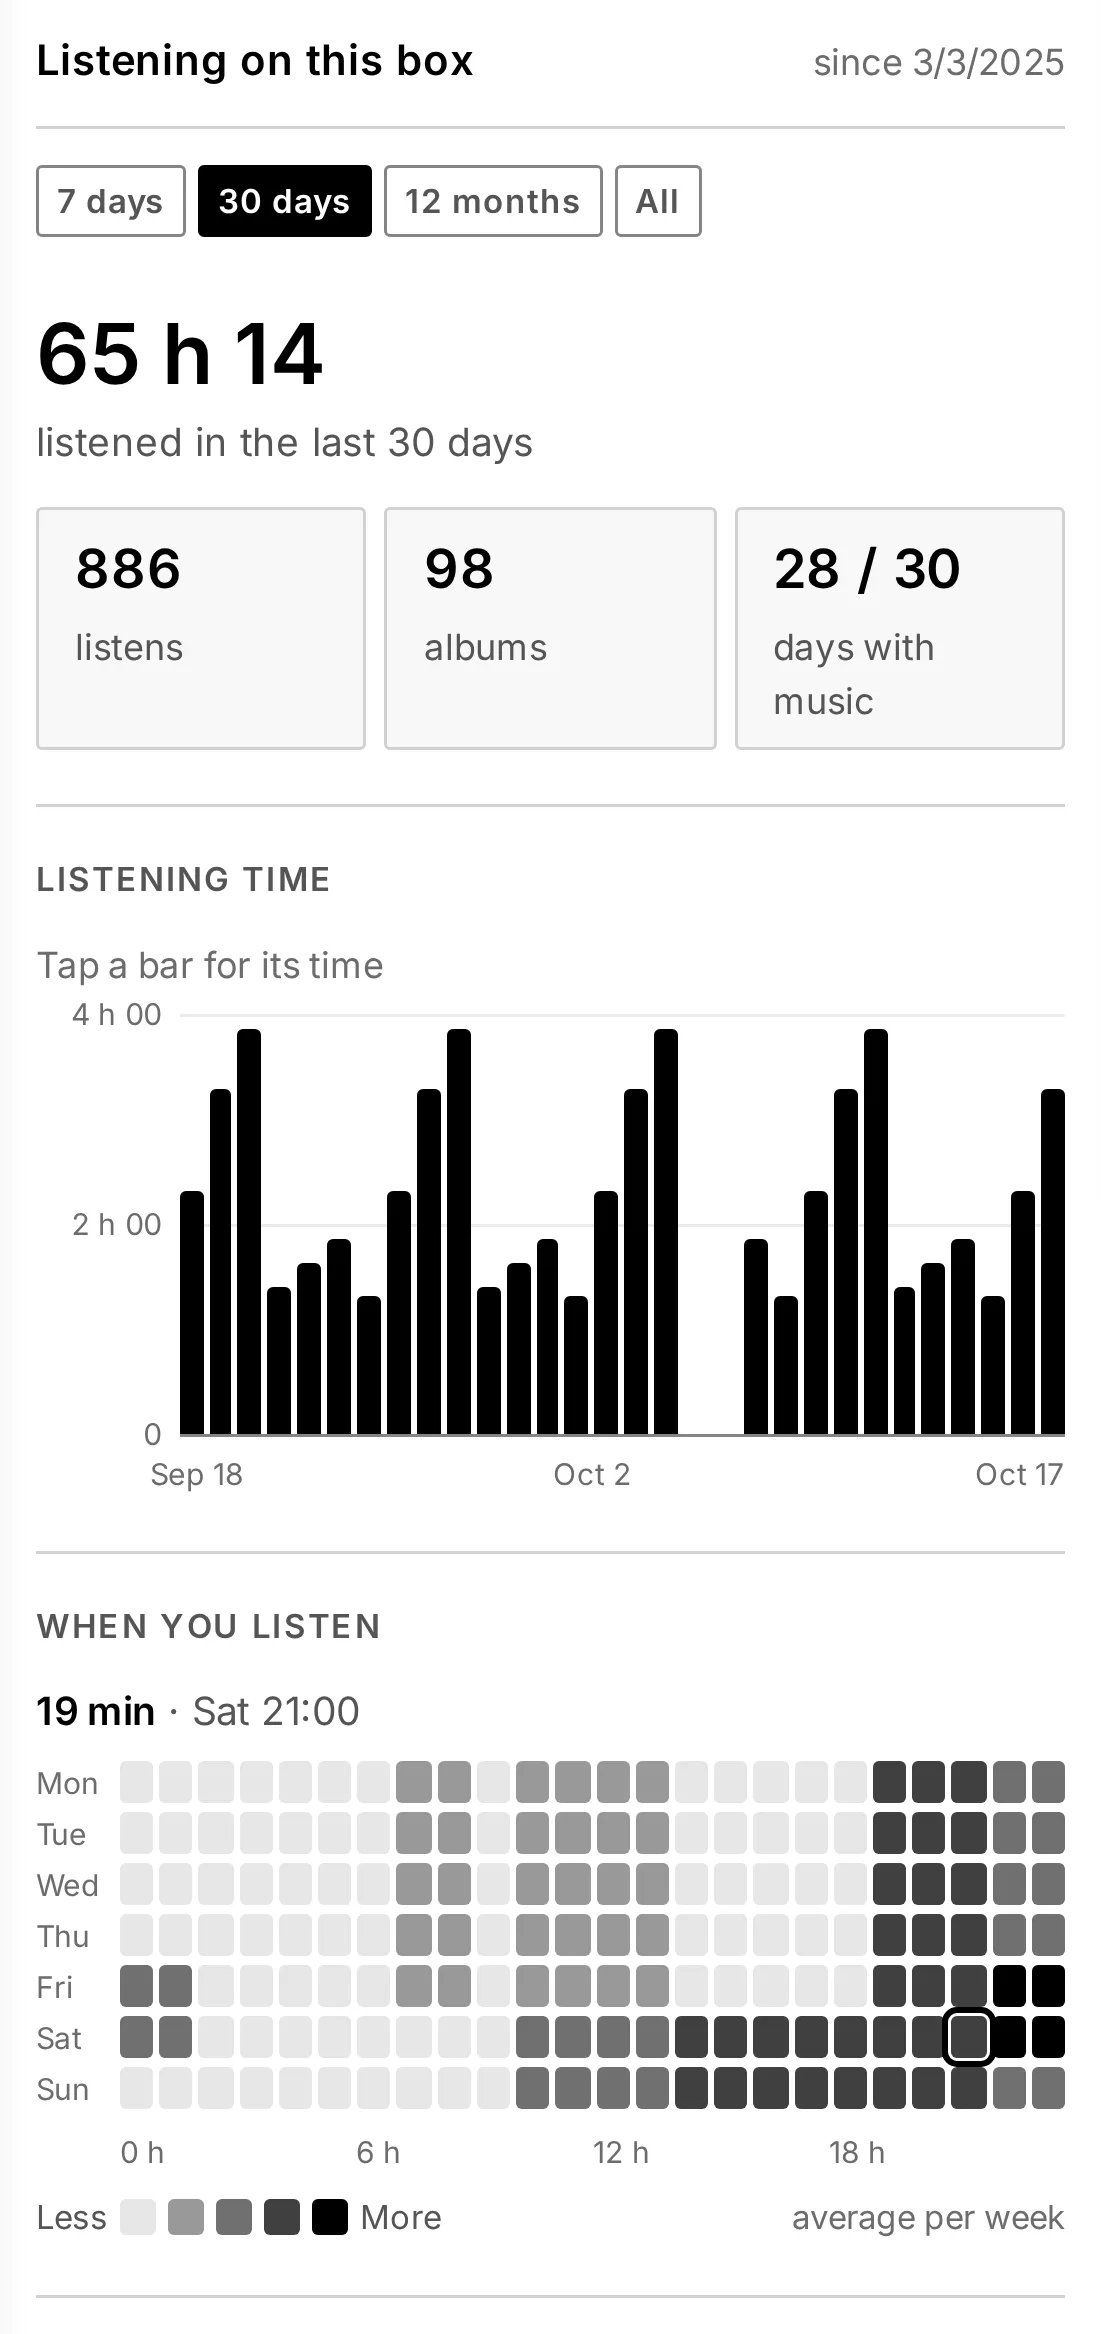
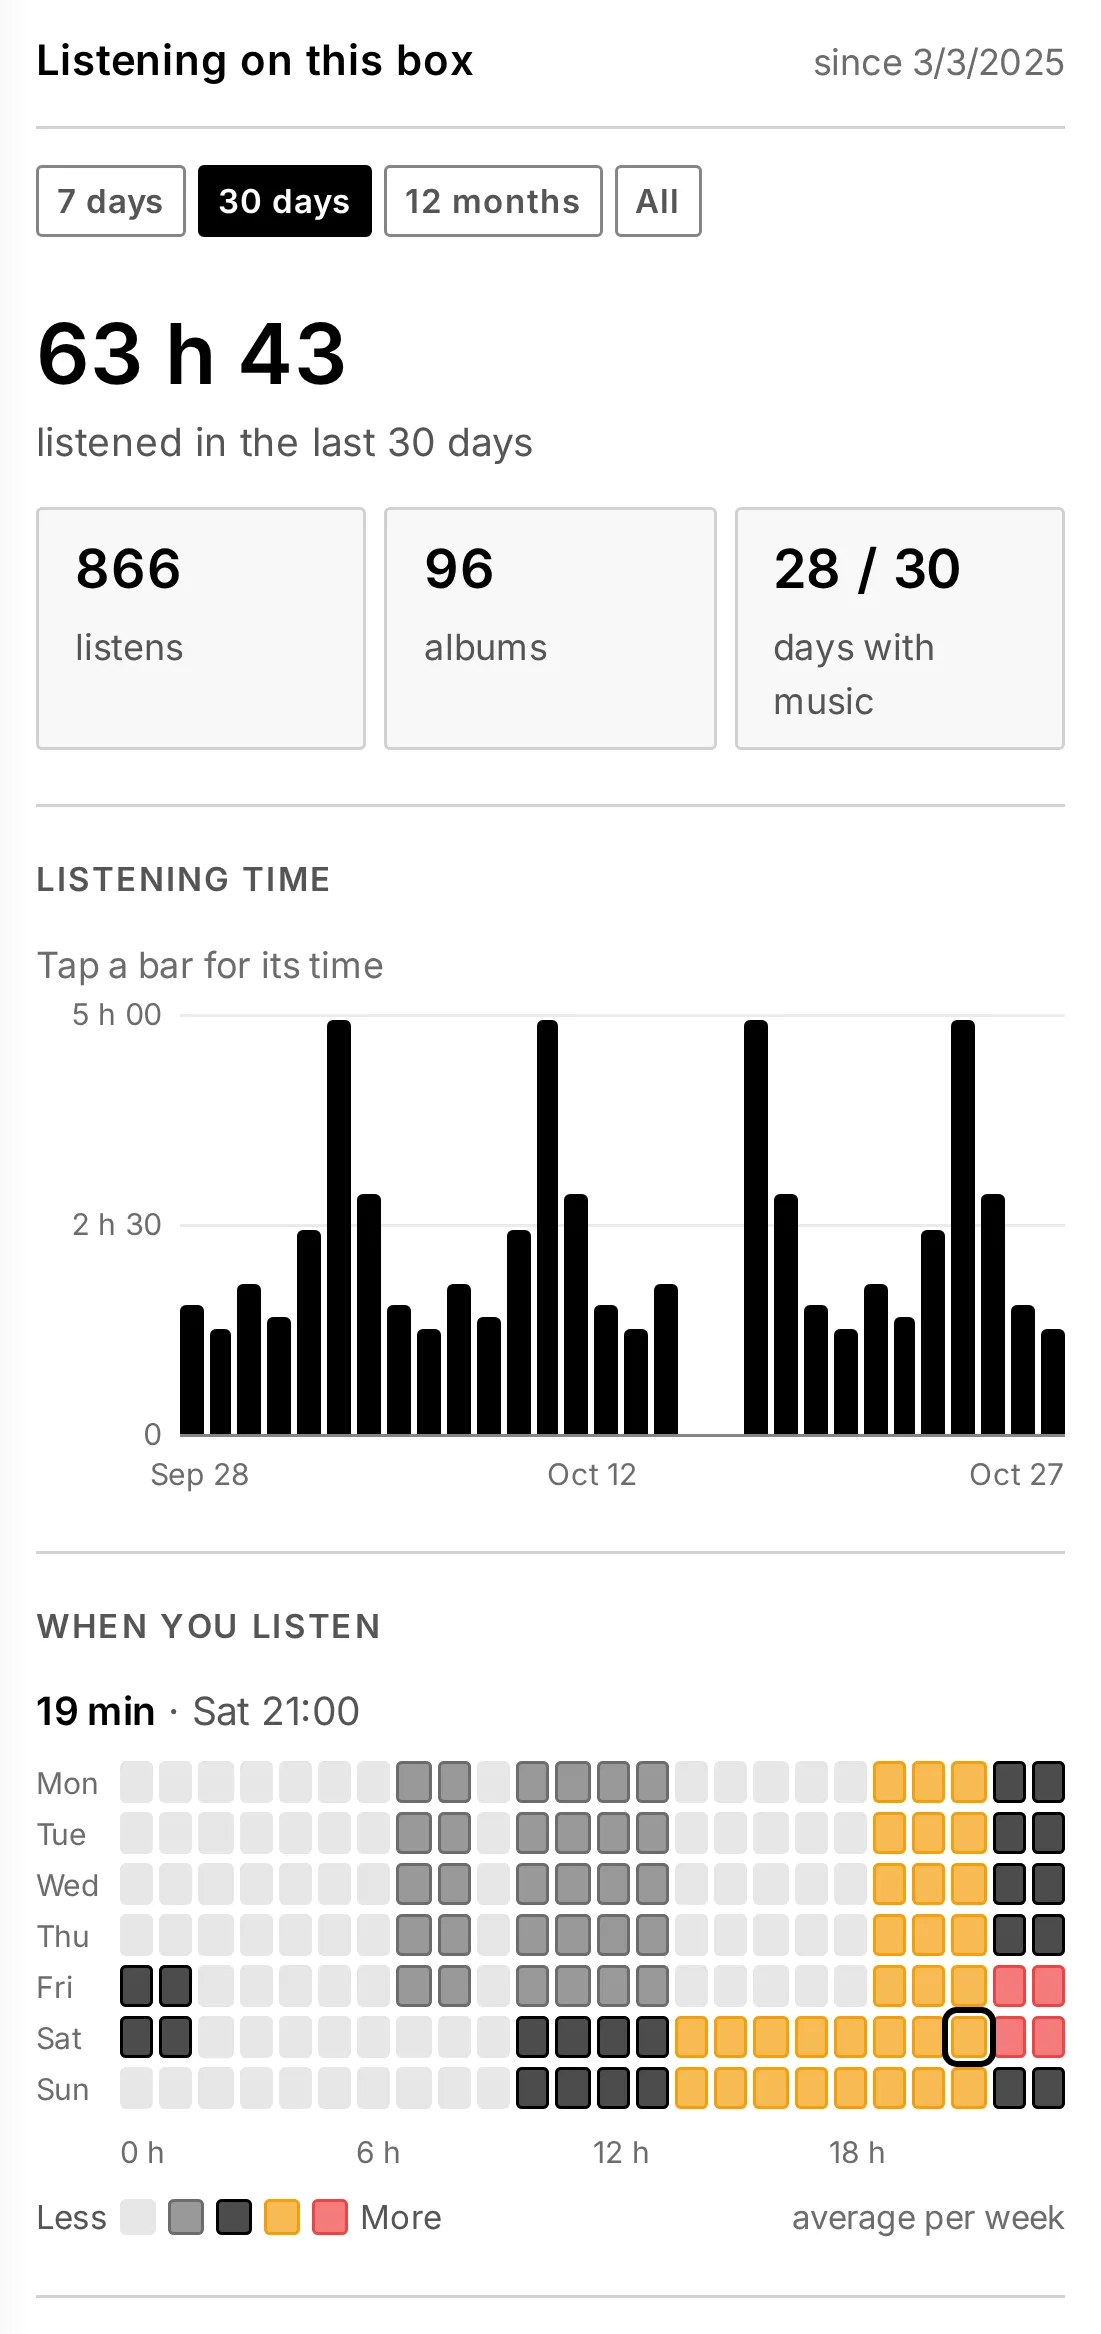
docs: describe the Stats view's Minimal colours in the manual and the release notes
The manual says a square of the week's hours is coloured from Less to
More, as its legend, where it said the darker the square, the more
played: in Minimal the busiest hour is red. Its Stats figure is retaken.

diff --git a/docs/manual/05-library-streaming.html b/docs/manual/05-library-streaming.html
@@ -393,8 +393,9 @@ figure below follows it.</li>
 <li><strong>Listening time</strong> has one bar per day — per month for 12 months and All. Tap a bar
 to read its time above the chart.</li>
 <li><strong>When you listen</strong> maps your week: a row per day, Monday to Sunday, and a square
-per hour. The darker a square, the more the box played at that hour, on average per
-week over the period. Tap a square to read its time above the grid.</li>
+per hour. A square's colour says how much the box played at that hour, on average per
+week over the period, from <strong>Less</strong> to <strong>More</strong> as the legend under the grid shows.
+Tap a square to read its time above the grid.</li>
 <li><strong>By source</strong>, <strong>By output</strong>, <strong>Sound quality</strong> and <strong>Genres</strong> show where that time
 went. Genres follow one list whatever the service: an album Qobuz files under
 <em>Soul/Funk/R&amp;B</em> and a track Tidal files under <em>R&amp;B/Soul</em> both count as <strong>Soul &amp; R&amp;B</strong>,

diff --git a/CHANGELOG.md b/CHANGELOG.md
@@ -9,6 +9,9 @@ and this landing) are documented here. Format based on
 
 ## [Unreleased]
 
+### Changed
+- **[ui][manual] In Minimal, the Stats view's sound quality and listening hours take the latency histogram's colours.** The latency test's histogram draws its bands in grey, ink, amber and red; the Stats view drew every chart in ink and greys. In the Minimal theme, the sound-quality bar and its legend now show DSD in the histogram's grey, Hi-Res in ink, CD in amber and MP3/AAC in red, and the week's hours run from grey, the quietest, to red, the busiest — each drawn the histogram's way, the colour slightly see-through inside and full at the edge. Slate and Gravity are unchanged (compared pixel for pixel in Chromium, light and dark). The manual describes the hours by their legend, *Less* to *More*, where it said the darker the square, the more played, and its Stats figure is retaken.
+
 ### Fixed
 - **[ui] The fullscreen player stays in place when a station's inset cover is tapped.** Tapping the small cover in the corner of a station's artwork — the station's logo or the track's cover, to swap the two — threw the whole player off the screen and slid it back up, on an iPhone as in Chromium on a touch screen; a new track's cover did the same after a touch. Each new background tint rewrote the player's whole style and dropped what the touch had set, so its opening slide-in played again. The tint is now set on its own, and the slide-in is taken off once it has played: with a mouse, *Close* now slides the player down, where it stayed for a third of a second, then vanished. A drag the system interrupts — a call, Control Center — now puts the player back in place; it stayed where the finger had left it.
 

diff --git a/docs/manual/05-library-streaming.md b/docs/manual/05-library-streaming.md
@@ -371,8 +371,9 @@ The figures come with **Pro**; on Starter, the tab shows them behind a padlock.
 3. **Listening time** has one bar per day — per month for 12 months and All. Tap a bar
    to read its time above the chart.
 4. **When you listen** maps your week: a row per day, Monday to Sunday, and a square
-   per hour. The darker a square, the more the box played at that hour, on average per
-   week over the period. Tap a square to read its time above the grid.
+   per hour. A square's colour says how much the box played at that hour, on average per
+   week over the period, from **Less** to **More** as the legend under the grid shows.
+   Tap a square to read its time above the grid.
 5. **By source**, **By output**, **Sound quality** and **Genres** show where that time
    went. Genres follow one list whatever the service: an album Qobuz files under
    *Soul/Funk/R&B* and a track Tidal files under *R&B/Soul* both count as **Soul & R&B**,

diff --git a/RELEASE_NOTES.md b/RELEASE_NOTES.md
@@ -16,6 +16,13 @@ touched the screen. It now stays in place. With a mouse, *Close* slides the play
 of making it vanish, and a swipe that iOS interrupts — a call, Control Center — puts the player
 back in place.
 
+### Library
+
+**Stats in the latency histogram's colours, in Minimal.** In the Minimal theme, the Stats
+view's sound quality and listening hours use the four colours of the latency test's histogram:
+DSD in grey, Hi-Res in black, CD in amber and MP3/AAC in red, and the hours from grey for the
+quietest to red for the busiest. Slate and Gravity look as before.
+
 ---
 
 ## 1.0.0-rc.2 — 2026-10-27
